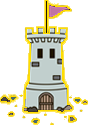
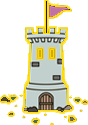
feat: new tower logic

Changed region(s): [[0.5455, 0.36, 0.6364, 0.48], [0.4091, 0.36, 0.5, 0.48]]

diff --git a/core/src/main/java/ru/education/tower/DefensiveTower.java b/core/src/main/java/ru/education/tower/DefensiveTower.java
@@ -6,42 +6,42 @@ import com.badlogic.gdx.graphics.g2d.SpriteBatch;
 import com.badlogic.gdx.graphics.g2d.TextureRegion;
 import com.badlogic.gdx.math.Rectangle;
 import com.badlogic.gdx.utils.Array;
-
 import ru.education.util.AnimationUtil;
 import ru.education.unit.Enemy;
-
 import com.badlogic.gdx.utils.Disposable;
 
+import java.util.EnumMap;
+
 public class DefensiveTower extends Tower {
-    public static final int ATTACK_SPEED = 1;
     private float lastShot;
     private final Rectangle range;
     private final Array<Shot> shotArray;
-    private int dmg;
+
 
 
     public DefensiveTower(
         float x, float y,
-        float width, float height,
-        Texture texture
+        EnumMap<TowerState, TowerStateAttribute> attributeEnumMap
     ) {
-        super(x, y, width, height, texture, new Rectangle(x, y, width, height));
+        super(x, y, attributeEnumMap);
 
         shotArray = new Array<>();
-        range = new Rectangle(x, y - 200f, hitBox.width, 200f + hitBox.height + 200f);
+        range = new Rectangle(x, y - 200f, attributeEnumMap.get(curState).getWidth(),
+            200f + attributeEnumMap.get(curState).getHeight() + 200f);
         lastShot = -1;
     }
 
-    @Override
-    public void draw(SpriteBatch batch) {
-        batch.draw(texture, x, y, width, height);
-    }
-
     public void draw(SpriteBatch batch, Enemy enemy, float curTime) {
-        batch.draw(texture, x, y, width, height);
+        batch.draw(attributeEnumMap.get(curState).getTexture(),
+            x,
+            y,
+            attributeEnumMap.get(curState).getWidth(),
+            attributeEnumMap.get(curState).getWidth());
         batch.draw(debugTexture, range.x, range.y, range.width, range.height);
 
-        if (curTime - lastShot > ATTACK_SPEED && range.contains(enemy.getX(), enemy.getY()) && enemy.isAlive()) {
+        if (curTime - lastShot > attributeEnumMap.get(curState).getAttackSpeed()
+            && range.contains(enemy.getX(), enemy.getY())
+            && enemy.isAlive()) {
             lastShot = curTime;
             shotArray.add(new Shot(enemy));
         }
@@ -77,8 +77,8 @@ public class DefensiveTower extends Tower {
 
         public Shot(Enemy enemy) {
             this.enemy = enemy;
-            this.x = DefensiveTower.this.x + DefensiveTower.this.width / 2f;
-            this.y = DefensiveTower.this.y + DefensiveTower.this.height / 2f;
+            this.x = DefensiveTower.this.x + attributeEnumMap.get(curState).getWidth() / 2f;
+            this.y = DefensiveTower.this.y + attributeEnumMap.get(curState).getHeight() / 2f;
             texture = new Texture("spark16.png");
             animations = AnimationUtil.getAnimationFromTexture(
                 texture,

diff --git a/core/src/main/java/ru/education/screen/GameScreen.java b/core/src/main/java/ru/education/screen/GameScreen.java
@@ -20,12 +20,14 @@ import ru.education.shop.Shop;
 import ru.education.tower.Core;
 import ru.education.tower.DefensiveTower;
 import ru.education.tower.SlotTower;
+import ru.education.tower.TowerState;
 import ru.education.tower.resource.Resource;
 import ru.education.tower.resource.ResourceType;
 import ru.education.ui.GameUserInterface;
 import ru.education.unit.Enemy;
 import ru.education.unit.Worker;
 import ru.education.user.User;
+import ru.education.util.TowerUtil;
 
 import java.util.Random;
 
@@ -193,7 +195,7 @@ public class GameScreen implements Screen {
                             }
                         } else {
                             for (DefensiveTower defensiveTower : defensiveTowerArray) {
-                                defensiveTower.setTexture(new Texture("towershine.png"));
+                                defensiveTower.setCurState(TowerState.CLICKED);
                             }
                         }
                         shop.setCurChoice(item);
@@ -208,12 +210,12 @@ public class GameScreen implements Screen {
                                 && slotTower.isFree()
                                 && User.getInstance().canBuy(shop.getCurChoice().getPrice())
                         ) {
-                            defensiveTowerArray.add(new DefensiveTower(
-                                slotTower.getHitBox().x,
-                                slotTower.getHitBox().y,
-                                70, 125,
-                                new Texture(Gdx.files.internal("tower.png"))
-                            ));
+                            defensiveTowerArray.add(
+                                TowerUtil.getDefensiveTower(
+                                    slotTower.getHitBox().x,
+                                    slotTower.getHitBox().y
+                                )
+                            );
                             slotTower.setFree(false);
                             slotTower.setVisible(false);
                             User.getInstance().buyItem(shop.getCurChoice());
@@ -225,8 +227,9 @@ public class GameScreen implements Screen {
                 } else {
                     for (DefensiveTower defensiveTower : defensiveTowerArray){
                         if (
-                            defensiveTower.getHitBox().contains(touchPoint.x, touchPoint.y)
+                            //defensiveTower.getHitBox().contains(touchPoint.x, touchPoint.y)
                             //&&
+                        1 == 1
                         ){
 
                         }

diff --git a/core/src/main/java/ru/education/util/TowerUtil.java b/core/src/main/java/ru/education/util/TowerUtil.java
@@ -1,0 +1,62 @@
+package ru.education.util;
+
+import com.badlogic.gdx.graphics.Texture;
+import com.badlogic.gdx.math.Rectangle;
+
+import java.util.EnumMap;
+
+import ru.education.tower.DefensiveTower;
+import ru.education.tower.TowerState;
+import ru.education.tower.TowerStateAttribute;
+
+public class TowerUtil {
+    public static DefensiveTower getDefensiveTower(float x, float y){
+        TowerStateAttribute towerStateAttributeDefault = new TowerStateAttribute(
+            new Texture("tower.png"),
+            70,
+            125,
+            2,
+            5,
+            new Rectangle(x, y, 70, 125)
+        );
+        TowerStateAttribute towerStateAttributeClicked = new TowerStateAttribute(
+            new Texture("towershine.png"),
+            70,
+            125,
+            2,
+            5,
+            new Rectangle(x, y, 70, 125)
+        );
+        TowerStateAttribute towerStateAttributeDmgUp = new TowerStateAttribute(
+            new Texture("towerdmgup.png"),
+            70,
+            125,
+            4,
+            5,
+            new Rectangle(x, y, 70, 125)
+        );
+        TowerStateAttribute towerStateAttributeSpeedUp = new TowerStateAttribute(
+            new Texture("towerspeedup.png"),
+            70,
+            125,
+            2,
+            1,
+            new Rectangle(x, y, 70, 125)
+        );
+        TowerStateAttribute towerStateAttributeSpdDmg = new TowerStateAttribute(
+            new Texture("tower_speed_ang_gmd_up.png"),
+            70,
+            125,
+            4,
+            1,
+            new Rectangle(x, y, 70, 125)
+        );
+        EnumMap<TowerState, TowerStateAttribute> stateAttributeEnumMap = new EnumMap<>(TowerState.class);
+        stateAttributeEnumMap.put(TowerState.DEFAULT, towerStateAttributeDefault);
+        stateAttributeEnumMap.put(TowerState.CLICKED, towerStateAttributeClicked);
+        stateAttributeEnumMap.put(TowerState.DMG_UP, towerStateAttributeDmgUp);
+        stateAttributeEnumMap.put(TowerState.DMG_SPEED_UP, towerStateAttributeSpdDmg);
+        stateAttributeEnumMap.put(TowerState.SPEED_UP, towerStateAttributeSpeedUp);
+        return new DefensiveTower(x, y, stateAttributeEnumMap);
+    }
+}

diff --git a/core/src/main/java/ru/education/tower/Tower.java b/core/src/main/java/ru/education/tower/Tower.java
@@ -5,42 +5,25 @@ import com.badlogic.gdx.graphics.g2d.SpriteBatch;
 import com.badlogic.gdx.math.Rectangle;
 import com.badlogic.gdx.Gdx;
 
+import java.util.EnumMap;
+
 import ru.education.MeowGame;
 
 public abstract class Tower {
     protected final float x;
     protected final float y;
-    protected final float width;
-    protected final float height;
-    protected  Texture texture;
+    protected final EnumMap<TowerState, TowerStateAttribute> attributeEnumMap;
+    protected TowerState curState;
     protected final Texture debugTexture;
-    protected final Rectangle hitBox;
 
     public Tower(
-        float x, float y,
-        float width, float height,
-        Texture texture,
-        Rectangle hitBox
+        float x, float y, EnumMap<TowerState, TowerStateAttribute> attributeEnumMap
     ) {
-        this.hitBox = hitBox;
-        this.texture = texture;
         this.x = x;
         this.y = y;
-        this.width = width;
-        this.height = height;
+        this.attributeEnumMap = attributeEnumMap;
+        this.curState = TowerState.DEFAULT;
         debugTexture = new Texture(Gdx.files.internal("tmp.png"));
-    }
-
-    public void setTexture(Texture texture) {
-        this.texture = texture;
-    }
-
-    public Rectangle getHitBox() {
-        return hitBox;
-    }
-
-    public Texture getTexture() {
-        return texture;
     }
 
     public float getX() {
@@ -51,18 +34,19 @@ public abstract class Tower {
         return y;
     }
 
-    public float getWidth() {
-        return width;
+    public TowerState getCurState() {
+        return curState;
     }
 
-    public float getHeight() {
-        return height;
+    public EnumMap<TowerState, TowerStateAttribute> getAttributeEnumMap() {
+        return attributeEnumMap;
     }
 
-    public abstract void draw(SpriteBatch batch);
+    public void setCurState(TowerState curState) {
+        this.curState = curState;
+    }
 
     public void dispose() {
-        texture.dispose();
         debugTexture.dispose();
     }
 

diff --git a/core/src/main/java/ru/education/tower/SlotTower.java b/core/src/main/java/ru/education/tower/SlotTower.java
@@ -5,17 +5,23 @@ import com.badlogic.gdx.graphics.Texture;
 import com.badlogic.gdx.graphics.g2d.SpriteBatch;
 import com.badlogic.gdx.math.Rectangle;
 
-public class SlotTower extends Tower {
-
+public class SlotTower {
+    protected final float x;
+    protected final float y;
+    protected final float width;
+    protected final float height;
+    protected  Texture texture;
+    protected final Rectangle hitBox;
     private boolean isFree;
     private boolean isVisible;
 
     public SlotTower(float x, float y) {
-        super(
-            x, y,
-            100, 100,
-            new Texture(Gdx.files.internal("tmp.png")),
-            new Rectangle(x, y, 100, 100));
+        hitBox = new Rectangle(x, y, 100, 100);
+        this.x = x;
+        this.y = y;
+        width = 100;
+        height = 100;
+        texture = new Texture(Gdx.files.internal("tmp.png"));
         isFree = true;
         isVisible = false;
     }
@@ -36,8 +42,35 @@ public class SlotTower extends Tower {
         return isFree;
     }
 
-    @Override
+    public float getX() {
+        return x;
+    }
+
+    public float getY() {
+        return y;
+    }
+
+    public float getWidth() {
+        return width;
+    }
+
+    public float getHeight() {
+        return height;
+    }
+
+    public Texture getTexture() {
+        return texture;
+    }
+
+    public Rectangle getHitBox() {
+        return hitBox;
+    }
+
     public void draw(SpriteBatch batch) {
         if (isFree && isVisible) batch.draw(texture, x, y, width, height);
+    }
+
+    public void dispose(){
+        texture.dispose();
     }
 }

diff --git a/core/src/main/java/ru/education/tower/TowerStateAttribute.java b/core/src/main/java/ru/education/tower/TowerStateAttribute.java
@@ -1,20 +1,23 @@
 package ru.education.tower;
 
 import com.badlogic.gdx.graphics.Texture;
+import com.badlogic.gdx.math.Rectangle;
 
 public class TowerStateAttribute {
-    private Texture texture;
-    private float width;
-    private float height;
-    private int dmg;
-    private int attackSpeed;
+    private final Texture texture;
+    private final float width;
+    private final float height;
+    private final int dmg;
+    private final int attackSpeed;
+    private final Rectangle hitBox;
 
-    public TowerStateAttribute(Texture texture, float width, float height, int dmg, int attackSpeed) {
+    public TowerStateAttribute(Texture texture, float width, float height, int dmg, int attackSpeed, Rectangle hitBox) {
         this.texture = texture;
         this.width = width;
         this.height = height;
         this.dmg = dmg;
         this.attackSpeed = attackSpeed;
+        this.hitBox = hitBox;
     }
 
     public int getDmg() {
@@ -35,5 +38,9 @@ public class TowerStateAttribute {
 
     public int getAttackSpeed() {
         return attackSpeed;
+    }
+
+    public Rectangle getHitBox() {
+        return hitBox;
     }
 }
